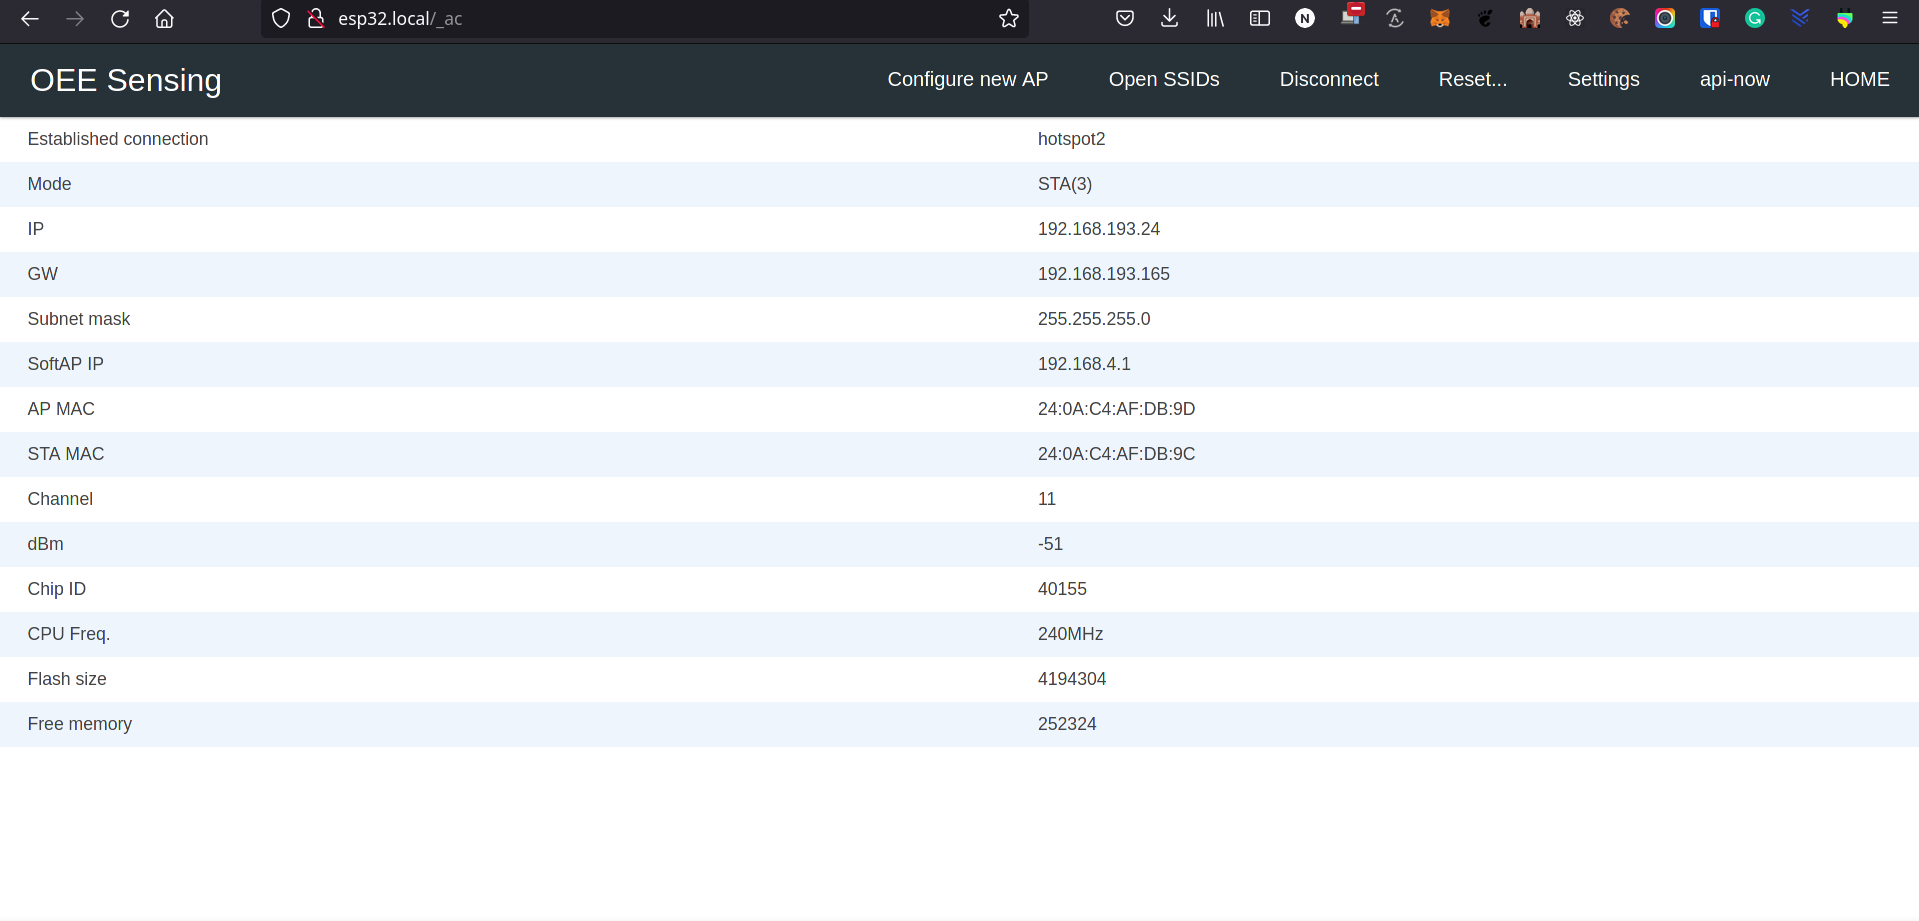
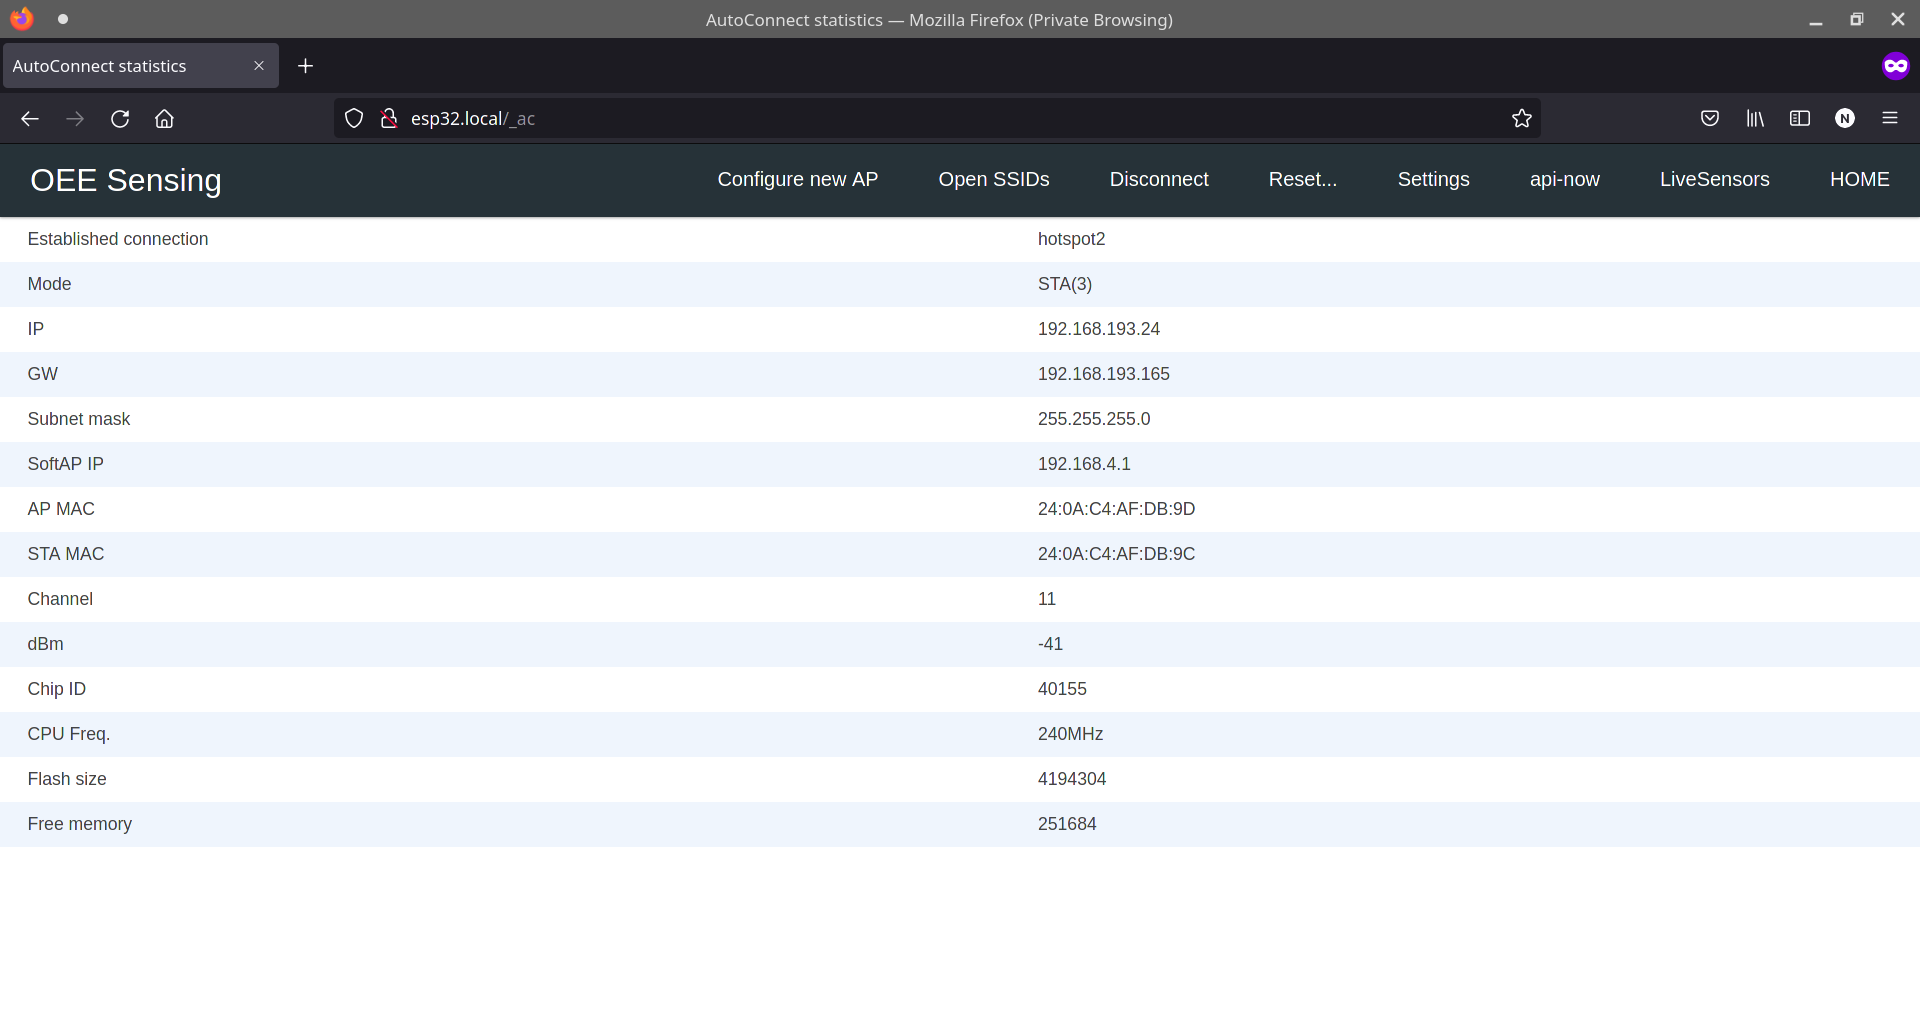
updated readme, fw

diff --git a/Firmware/webApp.h b/Firmware/webApp.h
@@ -92,8 +92,7 @@ void handleRoot() {
 "</head>"
 "<body>"
   "<div class=\"menu\">" AUTOCONNECT_LINK(BAR_24) "</div>"
-  "Smart T Controller<br>"
-  "GPIO(");
+  "OEE Sensing<br>");
   page += String(F("</body></html>"));
     page += String(F("<h1>Live Device Values</h1>"));
     page += String(F("<h2>DeviceName: "));
@@ -124,10 +123,14 @@ void handleRoot() {
   
   server.send(200, "text/html", page);
 }
+
 void redirectToHome() {
   server.sendHeader("Location", "/", true);
   server.send(302, "text/plain", "");
   //server.client().stop();
+}
+void live(){
+    redirectToHome();
 }
 void sendRedirect(String uri) {
   server.sendHeader("Location", uri, true);

diff --git a/README.md b/README.md
@@ -167,6 +167,21 @@ Here's the complete circuit diagram of the system.
 ![SCR1](Circuit/scr1.png)
 ![SCR2](Circuit/scr2.jpg)
 
+6.  **Configure New AP** tab allows searching of nearby WiFi APs and adding them to the ESP32.
+   ![SCR3](Circuit/scr3.png)
+7.  **Open SSIDs** tab allows connecting to the saved access points.
+   ![SCR4](Circuit/scr4.png)
+8.  **Disconnect** tab allows disconnecting from the connected AP and going into ESP32 WiFi AP mode.
+9.  **Reset...** tab allows reseting of the device to factory settings.
+    ![SCR5](Circuit/scr5)
+10. **Settings** tab contains settings related to MQTT and sensors.
+    ![SCR6](Circuit/scr6)
+11. **api-now** tab gives the live-sensor data in JSON format.
+    ![SCR7](Circuit/scr7)
+12. **HOME** tab shows the network connectivity status.
+    ![SCR1](Circuit/scr1)
+13. **LiveSensors** tab shows live values of the sensors.
+    ![SCR8](Circuit/scr8)
 
 ## List of Components <a name = "list"></a>
 
